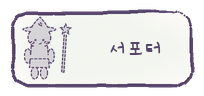
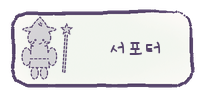
틀 팔을 크게 (18x40 → 25x50, 조금 바깥으로): 팔을 그릴 자리가 넉넉하게, 무기 쥐는 손 자리도 따라 옮김. 밑그림·틀 카드 다시 생성

Changed region(s): [[0.2353, 0.25, 0.3824, 0.7812], [0.0882, 0.4688, 0.1471, 0.6875]]

diff --git a/frames.py b/frames.py
@@ -79,7 +79,7 @@ def _face(x, y, cheeks=False):
 _BODY = (
     ('leg_l', 'e', X - 26, 332, 20, 34), ('leg_r', 'e', X + 26, 332, 20, 34),
     ('body', 'p', [(X - 46, 180), (X + 46, 180), (X + 56, 302), (X - 56, 302)]),
-    ('arm_l', 'e', X - 66, 236, 18, 40), ('arm_r', 'e', X + 66, 236, 18, 40))
+    ('arm_l', 'e', X - 72, 240, 25, 50), ('arm_r', 'e', X + 72, 240, 25, 50))   # 팔: 그릴 자리가 넉넉하게
 _HEAD = ('head', 'e', X, 132, 64, 58)
 _BELT = [(X - 50, 252), (X + 50, 252)]
 
@@ -106,7 +106,7 @@ ROLES = (
                'parts': (('shield', 'p', [(_H - 57, 168), (_H + 57, 168), (_H + 57, 252), (_H, 326),
                                           (_H - 57, 252)]),),
                'details': ([(_H, 188), (_H, 300)], [(_H - 37, 226), (_H + 37, 226)]),       # 방패 십자
-               'pivot': (_H - 57, 236), 'to': (X + 80, 240), 'angle': 0.0},)},
+               'pivot': (_H - 57, 236), 'to': (X + 92, 246), 'angle': 0.0},)},
     {'id': 'melee', 'name': '근접 딜러', 'stat': '공격력', 'look': '칼을 든 꼬마 검사',
      'deco': (('hair', 'p', _spiky(X, 132, 66, 84, 195, 345, 5)),),
      'deco_details': (),
@@ -116,20 +116,20 @@ ROLES = (
                                              (_gc[0] + _p[0] * 28, _gc[1] + _p[1] * 28), 15))),
                'details': ([(_END[0] - _p[0] * 11, _END[1] - _p[1] * 11), (_END[0] + _d[0] * 20, _END[1] + _d[1] * 20),
                             (_END[0] + _p[0] * 11, _END[1] + _p[1] * 11)],),          # 칼끝
-               'pivot': (_HILT[0] + _d[0] * 18, _HILT[1] + _d[1] * 18), 'to': (X + 76, 270), 'angle': 0.0},)},
+               'pivot': (_HILT[0] + _d[0] * 18, _HILT[1] + _d[1] * 18), 'to': (X + 84, 282), 'angle': 0.0},)},
     {'id': 'ranged', 'name': '원거리 딜러', 'stat': '공격력', 'look': '활과 화살을 든 꼬마 궁수',
      'deco': (('hat', 'p', [(X - 72, 116), (X + 72, 116), (X + 30, 62), (X - 20, 46)]),),
      'deco_details': ([(X + 40, 70), (X + 86, 36), (X + 70, 64)],),                  # 모자 깃털
      'gear': ({'name': '활', 'w': _BW,
                'parts': (('bow', 'p', _arc(_BOW, 214, 56, 120, -76, 76, 18) + _arc(_BOW, 214, 42, 110, 76, -76, 18)),),
                'details': ([(_BOW + 14, 98), (_BOW + 14, 330)],),                        # 활시위
-               'pivot': (_BOW + 49, 214), 'to': (X + 94, 250), 'angle': 0.0},
+               'pivot': (_BOW + 49, 214), 'to': (X + 104, 258), 'angle': 0.0},
               # 화살은 옆으로 눕혀(시계 방향 90도) 활시위에 메긴다
               {'name': '화살', 'w': _AW,
                'parts': (('arrow', 'p', _bar((_A, 318), (_A, 128), 8)),
                          ('arrow_tip', 'p', [(_A - 11, 132), (_A, 104), (_A + 11, 132)])),
                'details': ([(_A - 9, 314), (_A, 302), (_A + 9, 314)],),                  # 화살 깃
-               'pivot': (_A, 217), 'to': (X + 164, 250), 'angle': -math.pi / 2})},
+               'pivot': (_A, 217), 'to': (X + 174, 258), 'angle': -math.pi / 2})},
     {'id': 'support', 'name': '서포터', 'stat': '버프량', 'look': '별 지팡이를 든 꼬마 마법사',
      'deco': (('hat_brim', 'e', X, 86, 92, 15),
               ('hat', 'p', [(X - 54, 86), (X + 54, 86), (X + 30, 46), (X + 4, 16), (X - 20, 40)])),
@@ -139,7 +139,7 @@ ROLES = (
                'parts': (('staff', 'p', _bar((_T - 7, 352), (_T + 7, 142), 13)),
                          ('star', 'p', _star(_T + 9, 110, 32, 14))),
                'details': (),
-               'pivot': (_T, 262), 'to': (X + 88, 262), 'angle': 0.0},)},
+               'pivot': (_T, 262), 'to': (X + 100, 270), 'angle': 0.0},)},
 )
 IDS = tuple(r['id'] for r in ROLES)
 FRAMES = ROLES   # 역할 목록 (이름·능력치 설명용)
